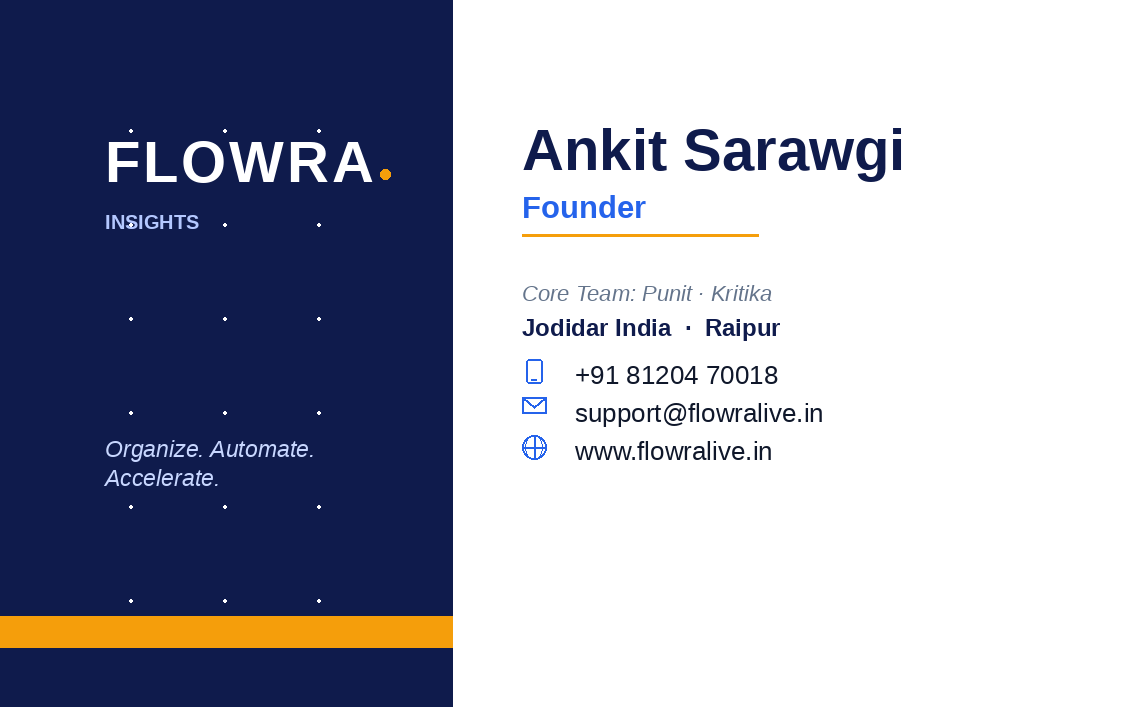
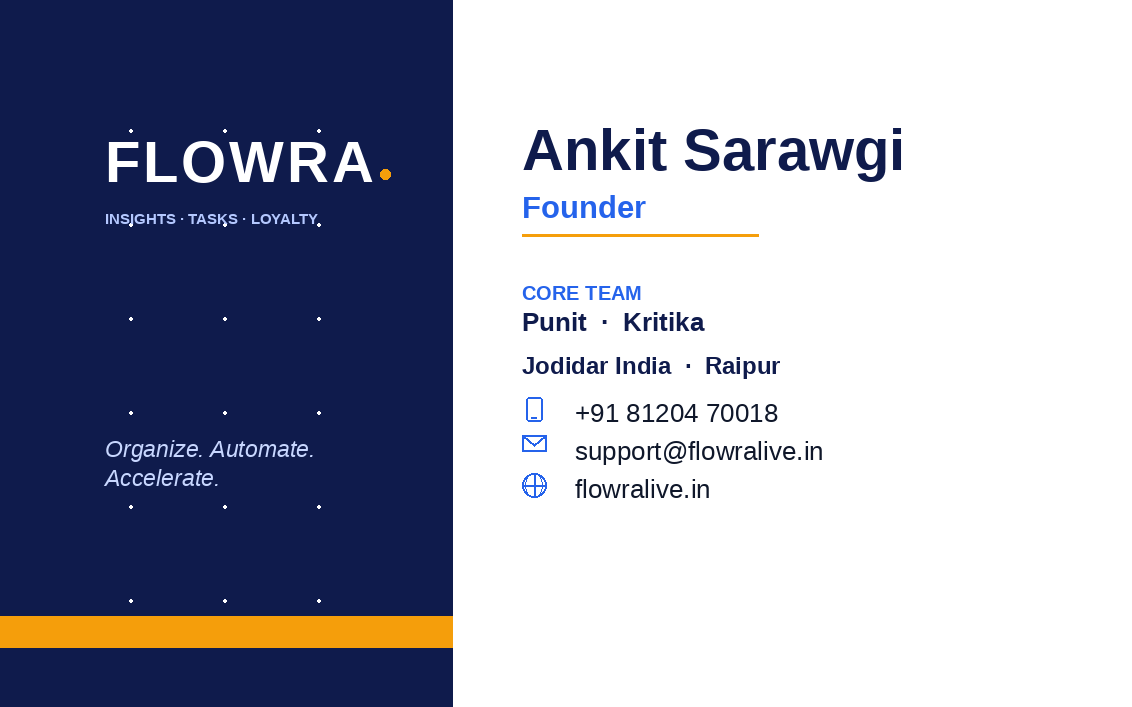
auto-commit for d57212c3-af85-49ac-9db0-7fe383cafe98

Changed region(s): [[0.4638, 0.4045, 0.742, 0.7157], [0.0928, 0.2801, 0.2783, 0.3423]]

diff --git a/scripts/generate_visiting_card.py b/scripts/generate_visiting_card.py
@@ -163,9 +163,10 @@ def render_front(path):
                wm_y + int(wm_size * 0.78) + dot_r),
               fill=AMBER)
 
-    # "INSIGHTS" tagword
-    text(d, (wm_x, wm_y + wm_size + int(2 * MM)), "INSIGHTS",
-         fnt=font(int(wm_size * 0.36), "bold"), color=(180, 200, 255))
+    # "INSIGHTS · TASKS · LOYALTY" tagword
+    text(d, (wm_x, wm_y + wm_size + int(2 * MM)),
+         "INSIGHTS · TASKS · LOYALTY",
+         fnt=font(int(wm_size * 0.27), "bold"), color=(180, 200, 255))
 
     # Vertical brand tagline at the bottom of the navy panel
     tag = "Organize. Automate."
@@ -194,10 +195,15 @@ def render_front(path):
     d.rectangle((cx, cy, cx + int(20 * MM), cy + 2), fill=AMBER)
     cy += int(4 * MM)
 
-    # Core team line (small italic)
-    text(d, (cx, cy), "Core Team: Punit · Kritika",
-         fnt=font(int(panel_w * 0.05), "italic"), color=GREY)
-    cy += int(panel_w * 0.075)
+    # Core team line — highlighted (Punit & Kritika in bold navy with amber pill prefix)
+    ct_label_font = font(int(panel_w * 0.046), "bold")
+    ct_name_font = font(int(panel_w * 0.058), "bold")
+    text(d, (cx, cy), "CORE TEAM",
+         fnt=ct_label_font, color=BLUE)
+    cy += int(panel_w * 0.058)
+    text(d, (cx, cy), "Punit  ·  Kritika",
+         fnt=ct_name_font, color=NAVY)
+    cy += int(panel_w * 0.10)
 
     # Company line
     text(d, (cx, cy), "Jodidar India  ·  Raipur",
@@ -212,7 +218,7 @@ def render_front(path):
     rows = [
         (icon_phone, "+91 81204 70018"),
         (icon_email, "support@flowralive.in"),
-        (icon_web, "www.flowralive.in"),
+        (icon_web, "flowralive.in"),
     ]
     for icn, val in rows:
         icn(d, cx, cy, size=icon_size, color=BLUE)
@@ -269,9 +275,9 @@ def render_back(path):
                cx + spacing + dot_r * 2, cy0 + int(wm_size * 0.78) + dot_r),
               fill=AMBER)
 
-    # INSIGHTS sub
-    sub_font = font(int(wm_size * 0.42), "bold")
-    sub = "INSIGHTS"
+    # INSIGHTS · TASKS · LOYALTY sub
+    sub_font = font(int(wm_size * 0.32), "bold")
+    sub = "INSIGHTS  ·  TASKS  ·  LOYALTY"
     sub_w = text_width(sub, sub_font)
     text(d, ((CANVAS_W - sub_w) // 2, cy0 + int(wm_size * 1.12)),
          sub, fnt=sub_font, color=(180, 200, 255))
